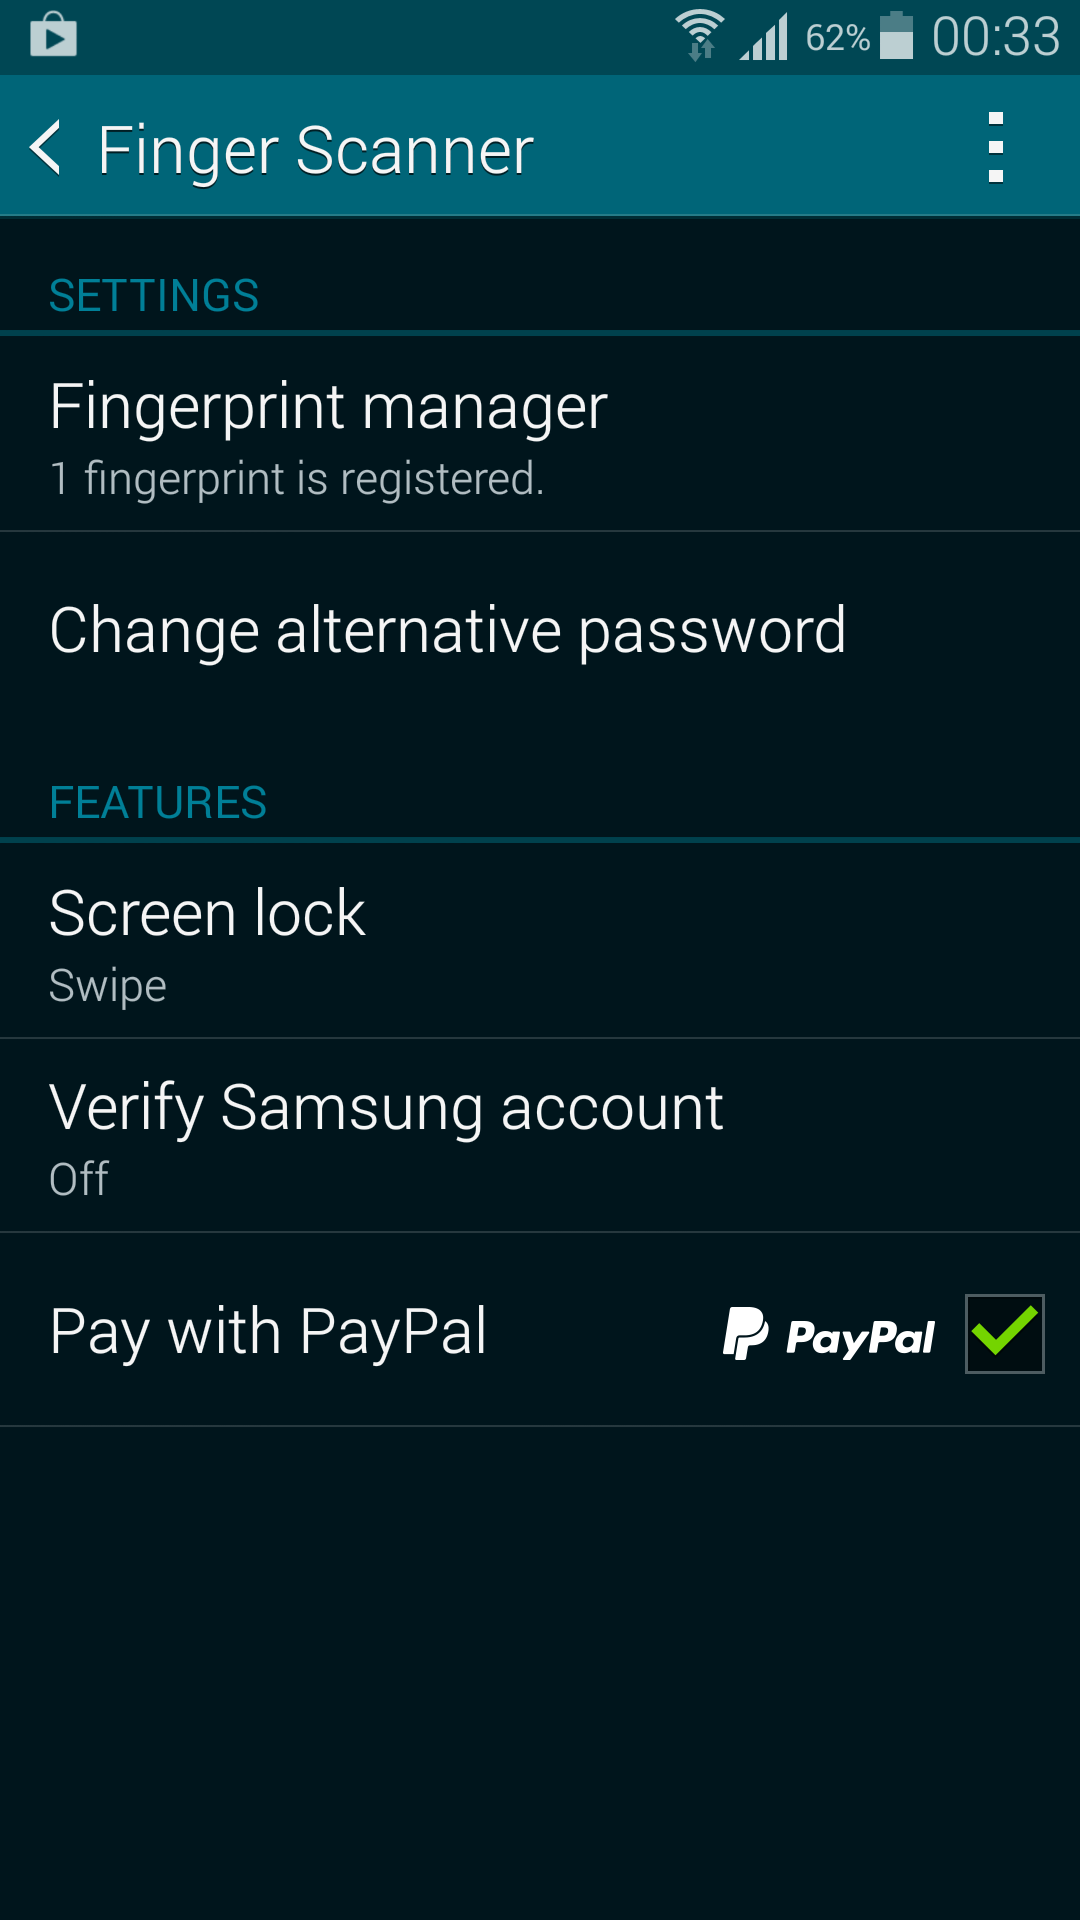
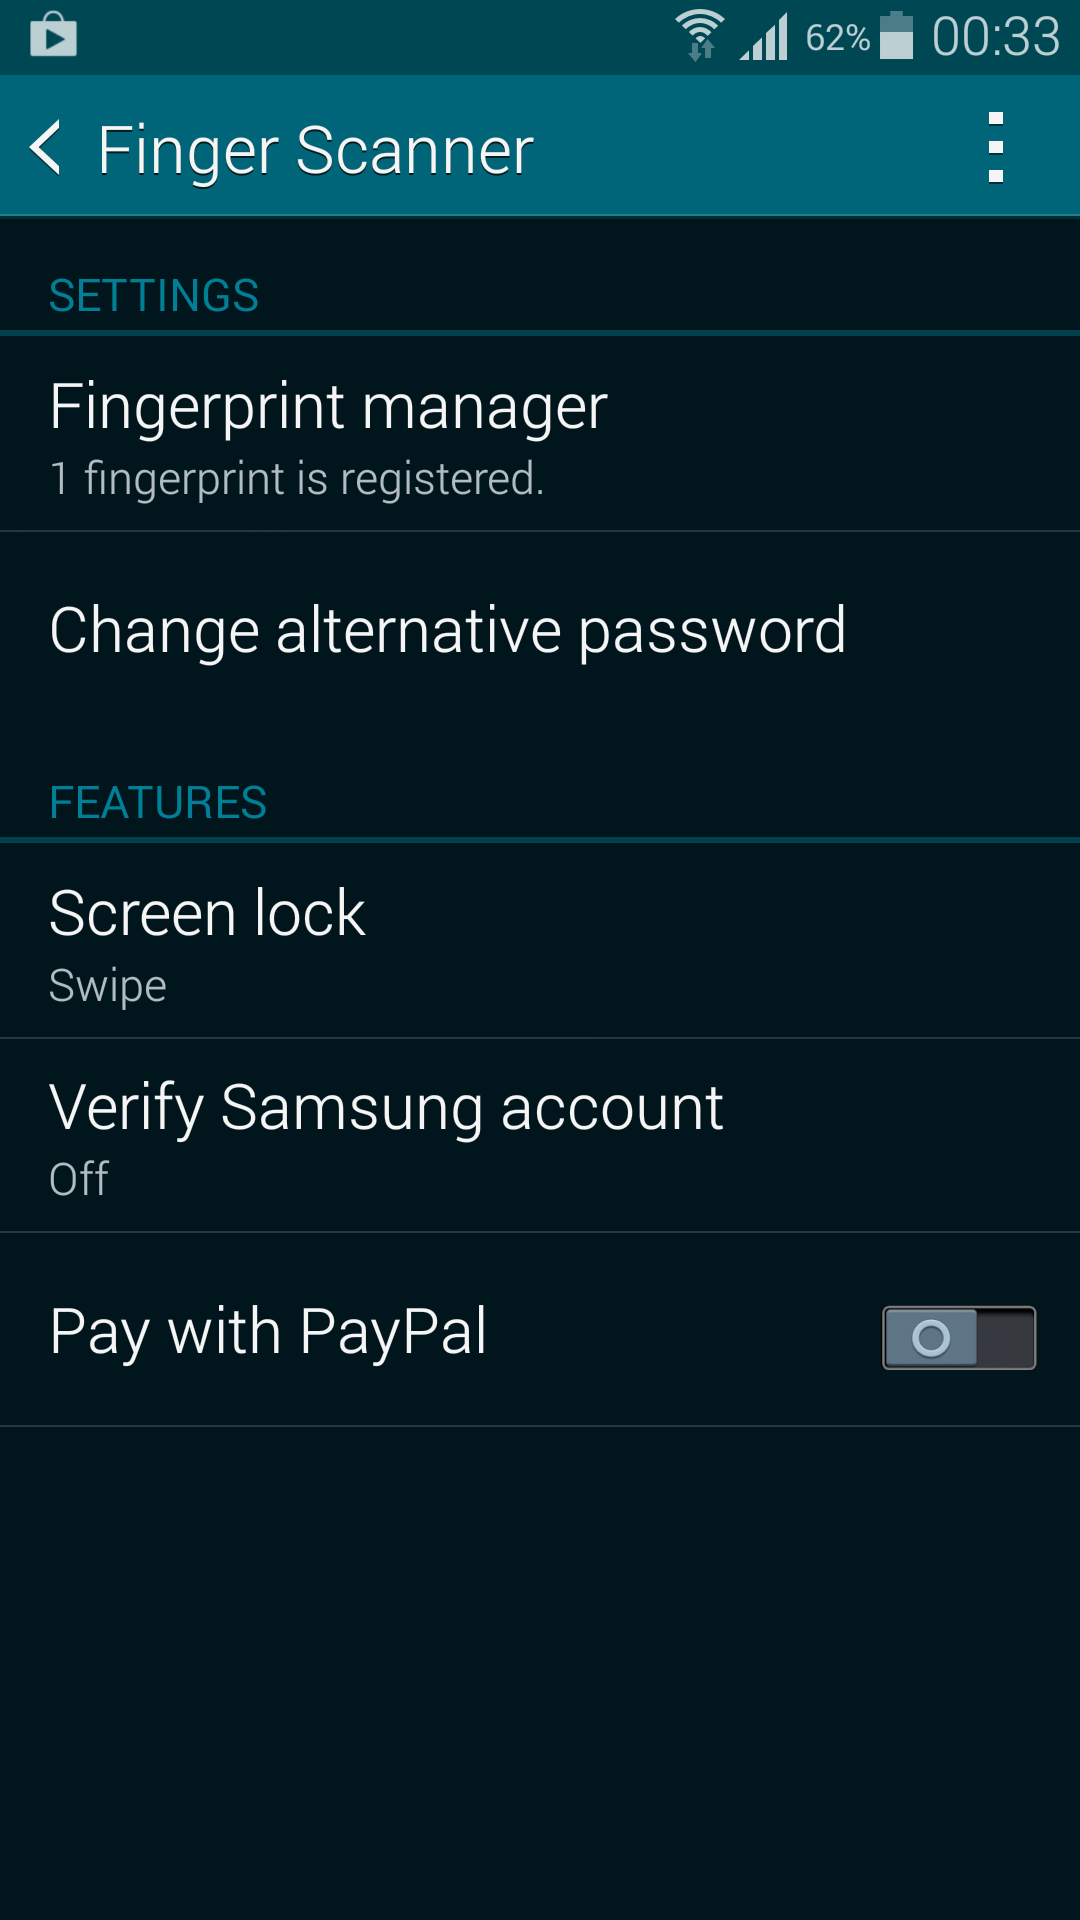
Update images and workflow

Changed region(s): [[0.6722, 0.6562, 0.9778, 0.7188]]

diff --git a/www/index.html b/www/index.html
@@ -48,46 +48,69 @@
 				</dd>	
 
 				<dd id="step4A">
+					<a href="#splash" class="hotspot" style="width: 358px;height: 62px;position: absolute;top: 72px;left: 0;"></a>
+					<a href="#splash" class="hotspot" style="width: 358px;height: 62px;position: absolute;top: 136px;left: 0;"></a>
 					<a href="#splash" class="hotspot" style="width: 358px;height: 62px;position: absolute;top: 202px;left: 0;"></a>
+					<a href="#splash" class="hotspot" style="width: 358px;height: 62px;position: absolute;top: 202px;left: 0;"></a>
+					<a href="#splash" class="hotspot" style="width: 358px;height: 62px;position: absolute;top: 266px;left: 0;"></a>
+					<a href="#splash" class="hotspot" style="width: 358px;height: 62px;position: absolute;top: 330px;left: 0;"></a>
+					<a href="#splash" class="hotspot" style="width: 358px;height: 62px;position: absolute;top: 394px;left: 0;"></a>
 				</dd>
 				<dd id="step4B">
-					<a href="#splash" class="hotspot" style="width: 358px;height: 62px;position: absolute;top: 411px;left: 0;"></a>
+					<div id="use-paypal" class="toggle-on"></div>
 					<a href="javascript:history.go(-1);" style="width: 189px;height: 45px;position: absolute;left: 0;top: 25px;"></a>											
 				</dd>
 
 				<dd id="splash">
 					<a href="#install-screen" class="hotspot" style="width: 333px;height: 48px;position: absolute;bottom: 60px;left: 11px;"></a>								
+					<div id="install-NNL" class="checkbox checked" style="position: absolute;width: 25px;height: 25px;right: 18px;top: 254px;"></div>
+					<div id="install-PP" class="checkbox checked" style="position: absolute;width: 25px;height: 25px;right: 18px;top: 368px;"></div>
 					<a href="javascript:history.go(-1);" style="width: 181px;height: 45px;position: absolute;"></a>											
 				</dd>		
 
-				<dd id="install-screen">
-					<a href="javascript:history.go(-1);" style="width: 181px;height: 45px;position: absolute;"></a>											
+				<dd id="install-screen" class="loader">
+					<img class="spin-logo" src="img/loader/introLoaderLogo.png" />
+					<img class="spin-loader" src="img/loader/introLoaderCircle.png" />
+					<p>Downloading and installing apps. This may take a while depending on your data connection.</p>
 				</dd>
 
 				<dd id="login">
 					<input type="text" name="email" placeholder="Email address" style="top: 166px;left: 21px;width: 317px;height: 20px;"/>
 					<input type="password" name="password" placeholder="Password" style="top: 231px;left: 21px;width: 317px;height: 20px;"/>
-					<a href="#loading-screen" class="hotspot" style="width: 333px;height: 55px;position: absolute;bottom: 304px;left: 13px;"></a>									
+					<a href="#loading-screen" class="hotspot" style="width: 333px;height: 55px;position: absolute;bottom: 304px;left: 13px;"></a>
+					<a href="navigator.app.loadUrl('https://www.paypal.com/sg/webapps/mpp/get-started', {openExternal : true});" class="hotspot" style="width: 333px;height: 55px;position: absolute;bottom: 304px;left: 13px;"></a>								
 				</dd>		
 
-				<dd id="loading-screen">
-					<img id="logo" src="img/loader/introLoaderLogo.png" />
-					<img id="loader" src="img/loader/introLoaderCircle.png" />
+				<dd id="loading-screen" class="loader">
+					<img class="spin-logo" src="img/loader/introLoaderLogo.png" />
+					<img class="spin-loader" src="img/loader/introLoaderCircle.png" />
+					<p>Processing your request.<br>Please wait a moment....</p>
 				</dd>
 
 				<dd id="swipe">
+					<a href="#login" style="width: 62px;height: 45px;position: absolute;right: 10px;top: 60px;"></a>											
 					<div id="link-swipe" data-xthreshold="700" style="width: 64px;height: 98px;position: absolute;bottom: 0;left: 146px;"></div>									
-				</dd>		
+				</dd>	
+
+				<dd id="install-paypal-app">
+					<a href="#install-paypal-app-screen" class="hotspot" style="width: 333px;height: 51px;position: absolute;bottom: 181px;left: 13px;"></a>									
+					<a href="#confirm" class="hotspot" style="width: 97px;height: 37px;position: absolute;bottom: 138px;left: 125px;"></a>									
+				</dd>
+				
+				<dd id="install-paypal-app-screen" class="loader">
+					<img class="spin-logo" src="img/loader/introLoaderLogo.png" />
+					<img class="spin-loader" src="img/loader/introLoaderCircle.png" />
+					<p>Downloading and installing the PayPal app. This may take a while depending on your data connection.</p>
+				</dd>
 
 				<dd id="confirm">
-					<a href="https://www.paypal-pages.com/samsunggalaxys5/sg/index.html" style="width: 333px;height: 56px;position: absolute;bottom: 228px;left: 13px;"></a>
+					<a href="navigator.app.loadUrl('https://www.paypal-pages.com/samsunggalaxys5/sg/index.html#section23', {openExternal : true});" style="width: 333px;height: 56px;position: absolute;bottom: 228px;left: 13px;"></a>
 					<a href="index.html" style="width: 110px;height: 37px;position: absolute;bottom: 173px;left: 122px;"></a>											
 				</dd>
 			</dl>
 		</section>
-		
+		<script src="cordova.js"></script>
 		<script src="js/jquery.js"></script>
-		<script src="js/Tocca.min.js"></script>
 		<script src="js/app.js"></script>		
 	</body>
 </html>

diff --git a/www/js/app.js b/www/js/app.js
@@ -1,4 +1,22 @@
 function navigateTo(step) {
+	if(step == "install-screen") {
+		if(!$("#install-NNL").hasClass("checked")) {
+			return false;
+		}
+	}
+
+	if(step == "loading-screen") {
+		if($("input[name=email]").val() == "" || $("input[name=password]").val() == ""){
+			return false;	
+		}
+	}
+
+	if(step == "confirm") {
+		if(!$("#install-PP").hasClass("checked")){
+			step = "install-paypal-app";
+		}
+	}
+
 	history.pushState(step, step, '#' + step);
 	
 	window.location.href= '#' + step;
@@ -11,13 +29,13 @@ function navigateTo(step) {
 function loaderInstall() {
 	var stepId = window.location.href.split('#')[1];
 
-	if(stepId && (stepId == 'install-screen' || stepId == 'loading-screen')){
+	if(stepId && (stepId == 'install-screen' || stepId == 'loading-screen' || stepId == 'install-paypal-app-screen')){
 		setTimeout(function(){
 			var nextId = $('#' + stepId).next().attr("id");
 			navigateTo(nextId);
 			vibrate(500);
-		}, 1500);
-	}	
+		}, 5000);
+	}
 }
 
 function vibrate(ms) {
@@ -34,7 +52,7 @@ function onDeviceReady(){
 		return false;
 	});
 
-	$("#register-swipe").on('swipedown', function(e,data){
+	$("#register-swipe").bind('touchend', function(e){
 		var indicator = $("ul#indicator");
 		var boxSize = indicator.find("li").size();
 
@@ -45,14 +63,26 @@ function onDeviceReady(){
 			indicator.append("<li></li>");
 			vibrate(80);
 		}
-	}).on('touchmove touchstart touchend', function(e){e.preventDefault();});
+	});
 
-	$("#link-swipe").on('swipedown', function(e,data){
+	$("#link-swipe").bind('touchend', function(e){
 		navigateTo('confirm');
 		vibrate(500);
-	}).on('touchmove touchstart touchend', function(e){e.preventDefault();});
+	});
+
+	$(".checkbox").click(function(){
+		$(this).toggleClass("checked");
+	});
+
+	$("#use-paypal").click(function(){
+		$(this).toggleClass("toggle-on");
+	});
 
 	window.addEventListener("popstate", loaderInstall);
+	
+	document.addEventListener("resume", function(){
+		window.location.href="index.html";
+	}, false);
 
 	loaderInstall();
 }

diff --git a/www/css/app.css b/www/css/app.css
@@ -114,7 +114,7 @@ ul#indicator li {
   margin-left: 9px;
 }
 
-#logo {
+.spin-logo {
   top: 30%;
   left: 50%;
   margin-top: -19px;
@@ -124,7 +124,7 @@ ul#indicator li {
   height: 37px;
 }
 
-#loader {
+.spin-loader {
   top: 30%;
   left: 50%;
   margin-top: -47px;
@@ -184,10 +184,30 @@ ul#indicator li {
 #step4B { background-image:url("../img/01B-Settings2.png"); }  
 
 #splash { background-image:url("../img/02-NNL-non-samsung-standard-V2.png"); }	
-#install-screen { background-image:url("../img/03-NNL-Loader-Black.png"); } 
 #login { background-image:url("../img/04-Login.png"); }	
 #swipe { background-image:url("../img/05-Swipe.png"); }	
-#confirm { background-image:url("../img/06-Confirmation.png"); }	
+#confirm { background-image:url("../img/06-Confirmation.png"); }
+#install-paypal-app { background-image:url("../img/Finger-Print-Link.png"); }
+
+.checked { background-image: url("../img/check.png"); background-size: 25px;}	
+.toggle-on { background-image: url("../img/toggle-on.png"); background-size: 52px;} 
+
+#use-paypal {
+  width: 52px;
+  height: 22px;
+  position: absolute;
+  top: 435px;
+  right: 14px;  
+}
+
+.loader p {
+  position: absolute;
+  text-align: center;
+  top: 250px;
+  padding: 0 40px;
+  right:0;
+  left:0;
+}
 
 #register-swipe
 {
